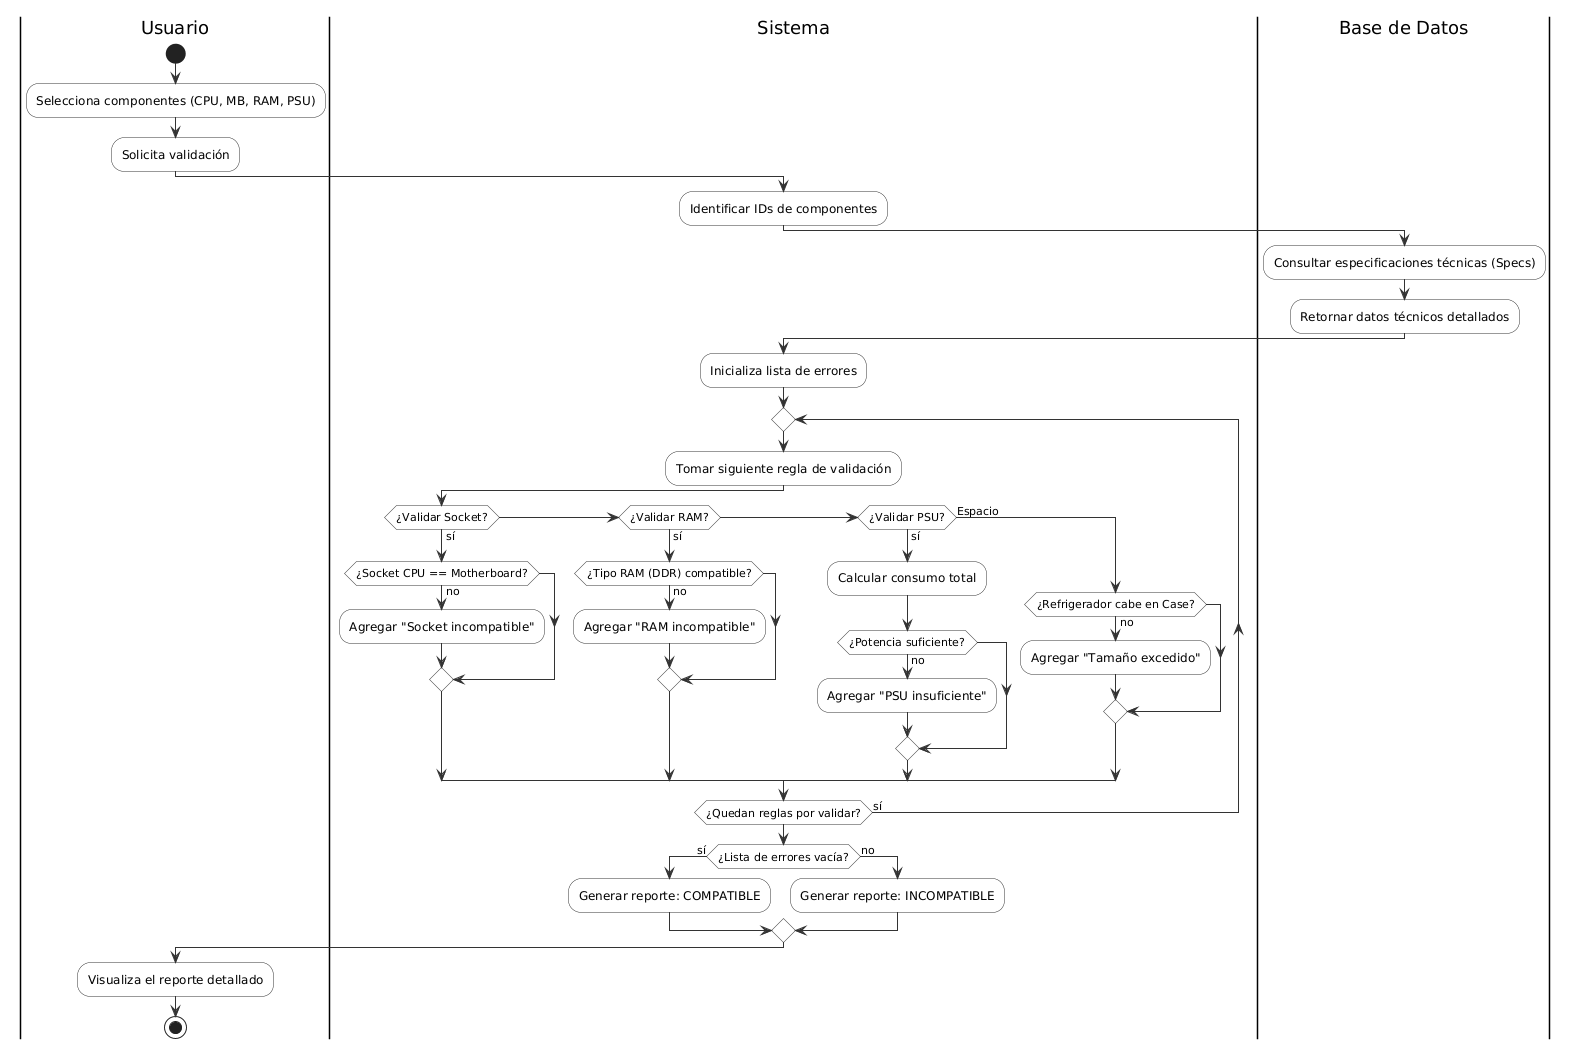
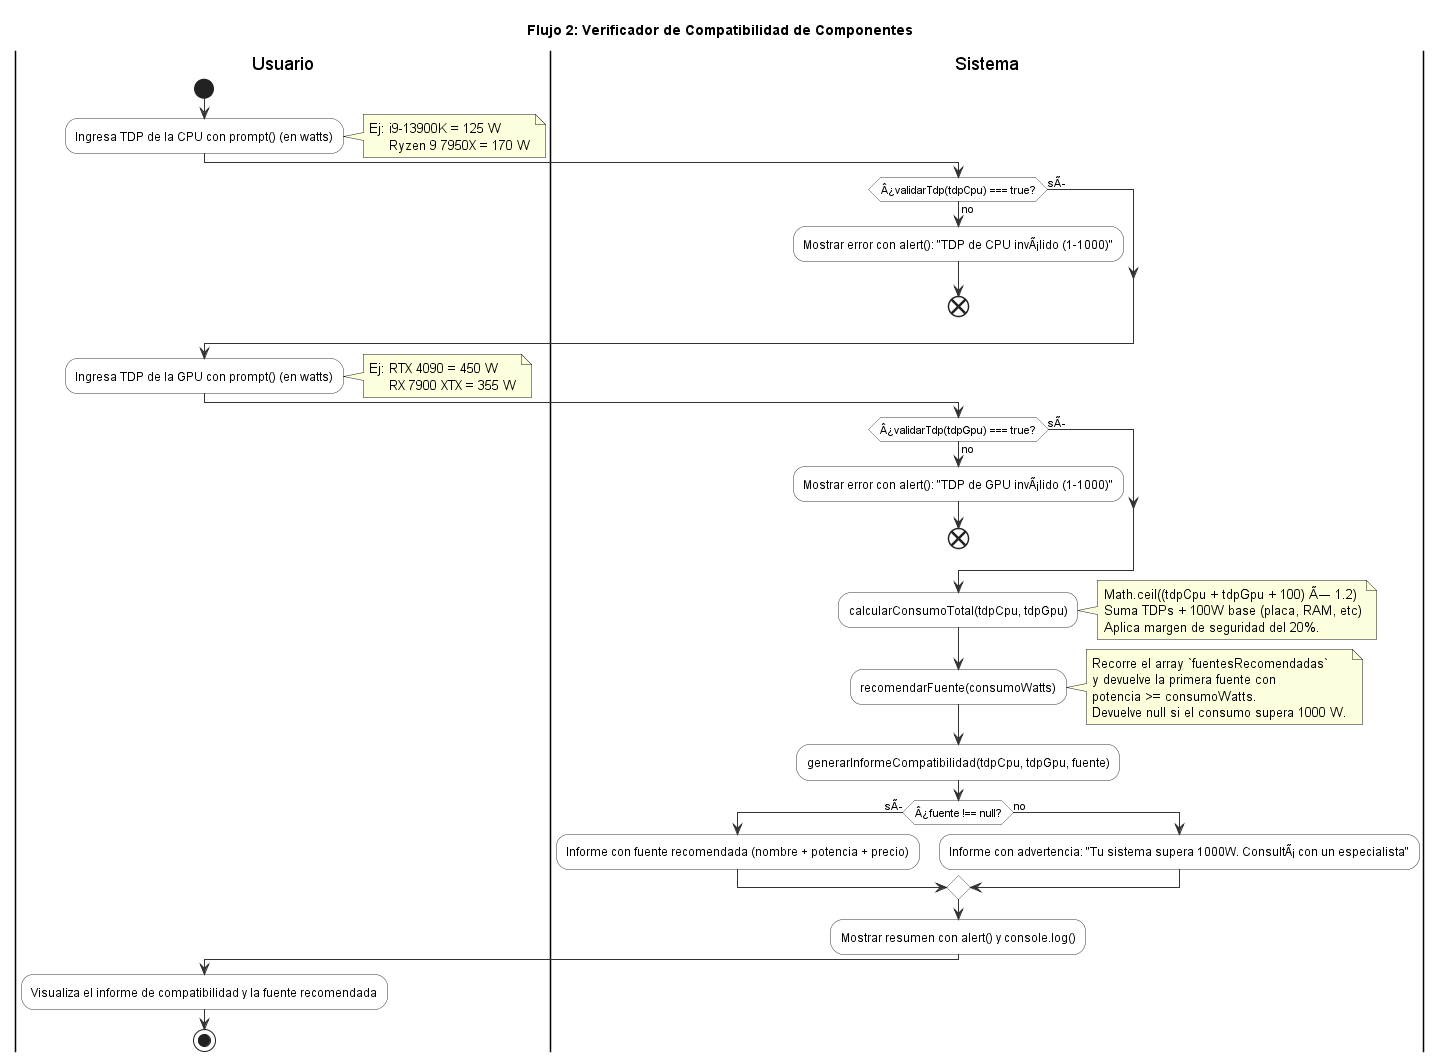
fix(coord-devops): RCN1-RCN4 regenerar PNGs de diagramas con PlantUML

diff --git a/changelog.md b/changelog.md
@@ -22,6 +22,9 @@ Este archivo se actualiza con cada Pull Request para registrar avances y correcc
 
 ### Fixed
 
+- [fix/coord-devops-png-diagramas] Resolución de RCN1, RCN2, RCN3 y RCN4: regeneración de los 4 archivos `.png` de los diagramas de actividades con PlantUML para que el contenido visual coincida con los `.puml` actuales (renumeración + simplificación de compatibilidad + nuevo Cotizador).
+  PR: [#XXX](https://github.com/GonzaloBarbano/E-commerce/pull/XXX) - @Naguirre0102 (Coordinador / DevOps + Arquitecto de Diagramas)
+
 - [fix/coord-devops-rc23-compatibilidad] Resolución de RC23
   PR: [#127](https://github.com/GonzaloBarbano/E-commerce/pull/127) - @Naguirre0102 (Coordinador / DevOps + Arquitecto de Diagramas)
 
